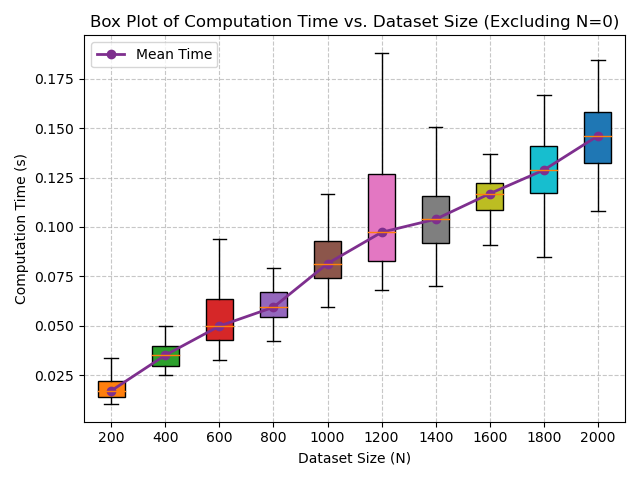
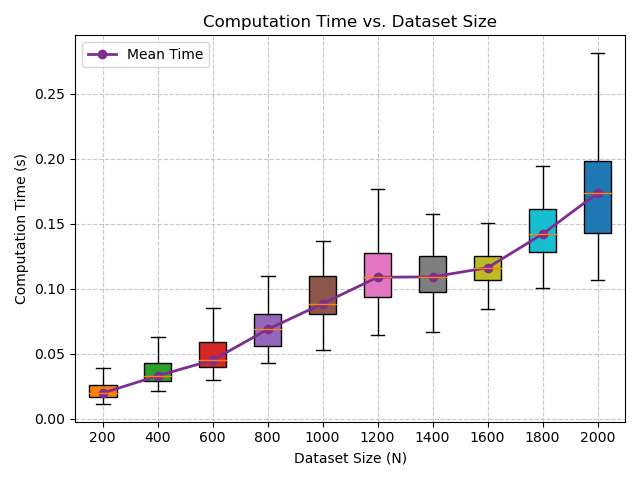
update

diff --git a/adaptive_control_SE3/main_single_test.py b/adaptive_control_SE3/main_single_test.py
@@ -12,6 +12,11 @@ import time
 from scipy.spatial.transform import Rotation  # 直接导入 Rotation
 
 def single_test():
+    init_pos = np.array([0.4, 0, 0])
+    init_quat = np.array([0, 0, 0, 1])
+    init_w = np.array([0, 0, 0])
+    init_v = np.array([0, 0, 0])
+    init_state = np.hstack([init_pos, init_quat, init_w, init_v])
     robot = SingleRigidBodySimulator()
     I_star, m_star = robot.get_true_I_m()
     lti = LinearSE3ErrorDynamics(fixed_param=True)
@@ -23,7 +28,7 @@ def single_test():
                         'nTraj': 301}}
     planner = SE3Planner(config)
     ref_SE3, ref_twist, dt = planner.get_traj()
-    init_traj, _ = evaluation(False, lti, config)
+    init_traj, _ = evaluation(False, lti, config, init_state)
     A = lti.A
     B = lti.B
     Q = lti.Q
@@ -43,7 +48,7 @@ def single_test():
     I_hat = ourEnv.I_hat
     m_hat = ourEnv.m_hat
     lti.reset(fixed_param=True, I=I_hat, m=m_hat)
-    adaptive_traj, _ = evaluation(False, lti, config)
+    adaptive_traj, _ = evaluation(False, lti, config, init_state)
 
     # Function to plot coordinate frames
     def plot_frames(ax, traj, color, step=30, axis_length=0.1):
@@ -83,8 +88,8 @@ def single_test():
     ax1.set_title('Reference vs Initial Trajectory')
 
     # Save the first plot
-    fig1.savefig('data/ref_vs_init_traj.png', dpi=300, bbox_inches='tight')
-    print("Saved ref_vs_init_traj.png")
+    fig1.savefig('data/ref_vs_init_traj.jpg', dpi=300)
+    print("Saved ref_vs_init_traj.jpg")
 
     # Plot 2: ref_SE3 and adaptive_traj
     fig2, ax2 = plt.subplots(subplot_kw={'projection': '3d'})
@@ -100,9 +105,9 @@ def single_test():
     ax2.legend(fontsize=10)
     ax2.set_title('Reference vs Adaptive Trajectory')
 
-    # # Save the second plot
-    # fig2.savefig('data/ref_vs_adaptive_traj.png', dpi=300, bbox_inches='tight')
-    # print("Saved ref_vs_adaptive_traj.png")
+    # Save the second plot
+    fig2.savefig('data/ref_vs_adaptive_traj.jpg', dpi=300)
+    print("Saved ref_vs_adaptive_traj.jpg")
 
     # Show the plots (optional)
     plt.show()

diff --git a/adaptive_control_SE3/main_lie_algebra_adaptive_monte_carlo.py b/adaptive_control_SE3/main_lie_algebra_adaptive_monte_carlo.py
@@ -73,7 +73,7 @@ def MonteCarloSimulation():
     add_median_line(plt.gca(), boxplot_I, x_positions, color=mean_color, linestyle='-', label='Mean $e_{I_b}$')
     plt.xlabel('Dataset Size (N)')
     plt.ylabel('Inertia Matrix Reconstruction Error ($e_{I_b}$)')
-    plt.title('Box Plot of Inertia Matrix Reconstruction Error vs. Dataset Size')
+    plt.title('Inertia Matrix Reconstruction Error vs. Dataset Size')
     plt.grid(True, linestyle='--', alpha=0.7)
     plt.tight_layout()
     plt.savefig('data/I_error_plot.png')
@@ -88,7 +88,7 @@ def MonteCarloSimulation():
     add_median_line(plt.gca(), boxplot_m, x_positions, color=mean_color, linestyle='-', label='Mean $e_{m}$')
     plt.xlabel('Dataset Size (N)')
     plt.ylabel('Mass Reconstruction Error ($e_{m}$)')
-    plt.title('Box Plot of Mass Reconstruction Error vs. Dataset Size')
+    plt.title('Mass Reconstruction Error vs. Dataset Size')
     plt.grid(True, linestyle='--', alpha=0.7)
     plt.tight_layout()
     plt.savefig('data/m_error_plot.png')
@@ -103,7 +103,7 @@ def MonteCarloSimulation():
     add_median_line(plt.gca(), boxplot_times, x_positions[1:], color=mean_color, linestyle='-', label='Mean Time')
     plt.xlabel('Dataset Size (N)')
     plt.ylabel('Computation Time (s)')
-    plt.title('Box Plot of Computation Time vs. Dataset Size (Excluding N=0)')
+    plt.title('Computation Time vs. Dataset Size')
     plt.grid(True, linestyle='--', alpha=0.7)
     plt.tight_layout()
     plt.savefig('data/computation_time_plot.png')

diff --git a/adaptive_control_SE3/linear_se3_error_dynamics.py b/adaptive_control_SE3/linear_se3_error_dynamics.py
@@ -76,7 +76,7 @@ class LinearSE3ErrorDynamics:
 
     def update_controller(self, K):
         self.K0 = K
-def evaluation(isPlot=False, lti=LinearSE3ErrorDynamics(True), config=None):
+def evaluation(isPlot=False, lti=LinearSE3ErrorDynamics(True), config=None, the_init_state=None):
     linear_vel = lti.v
     angular_vel = lti.w
     config = {'type': TrajType.CONSTANT,
@@ -91,7 +91,10 @@ def evaluation(isPlot=False, lti=LinearSE3ErrorDynamics(True), config=None):
     init_pos = np.array([0, 0, 0])
     init_quat = np.array([0, 0, 0, 1])
     # init_state = np.hstack([init_pos, init_quat, np.zeros(6)])
-    init_state = np.hstack([init_pos, init_quat, angular_vel, linear_vel])
+    if the_init_state is None:
+        init_state = np.hstack([init_pos, init_quat, angular_vel, linear_vel])
+    else:
+        init_state = the_init_state
 
     simulator.set_init_state(init_state)
 
